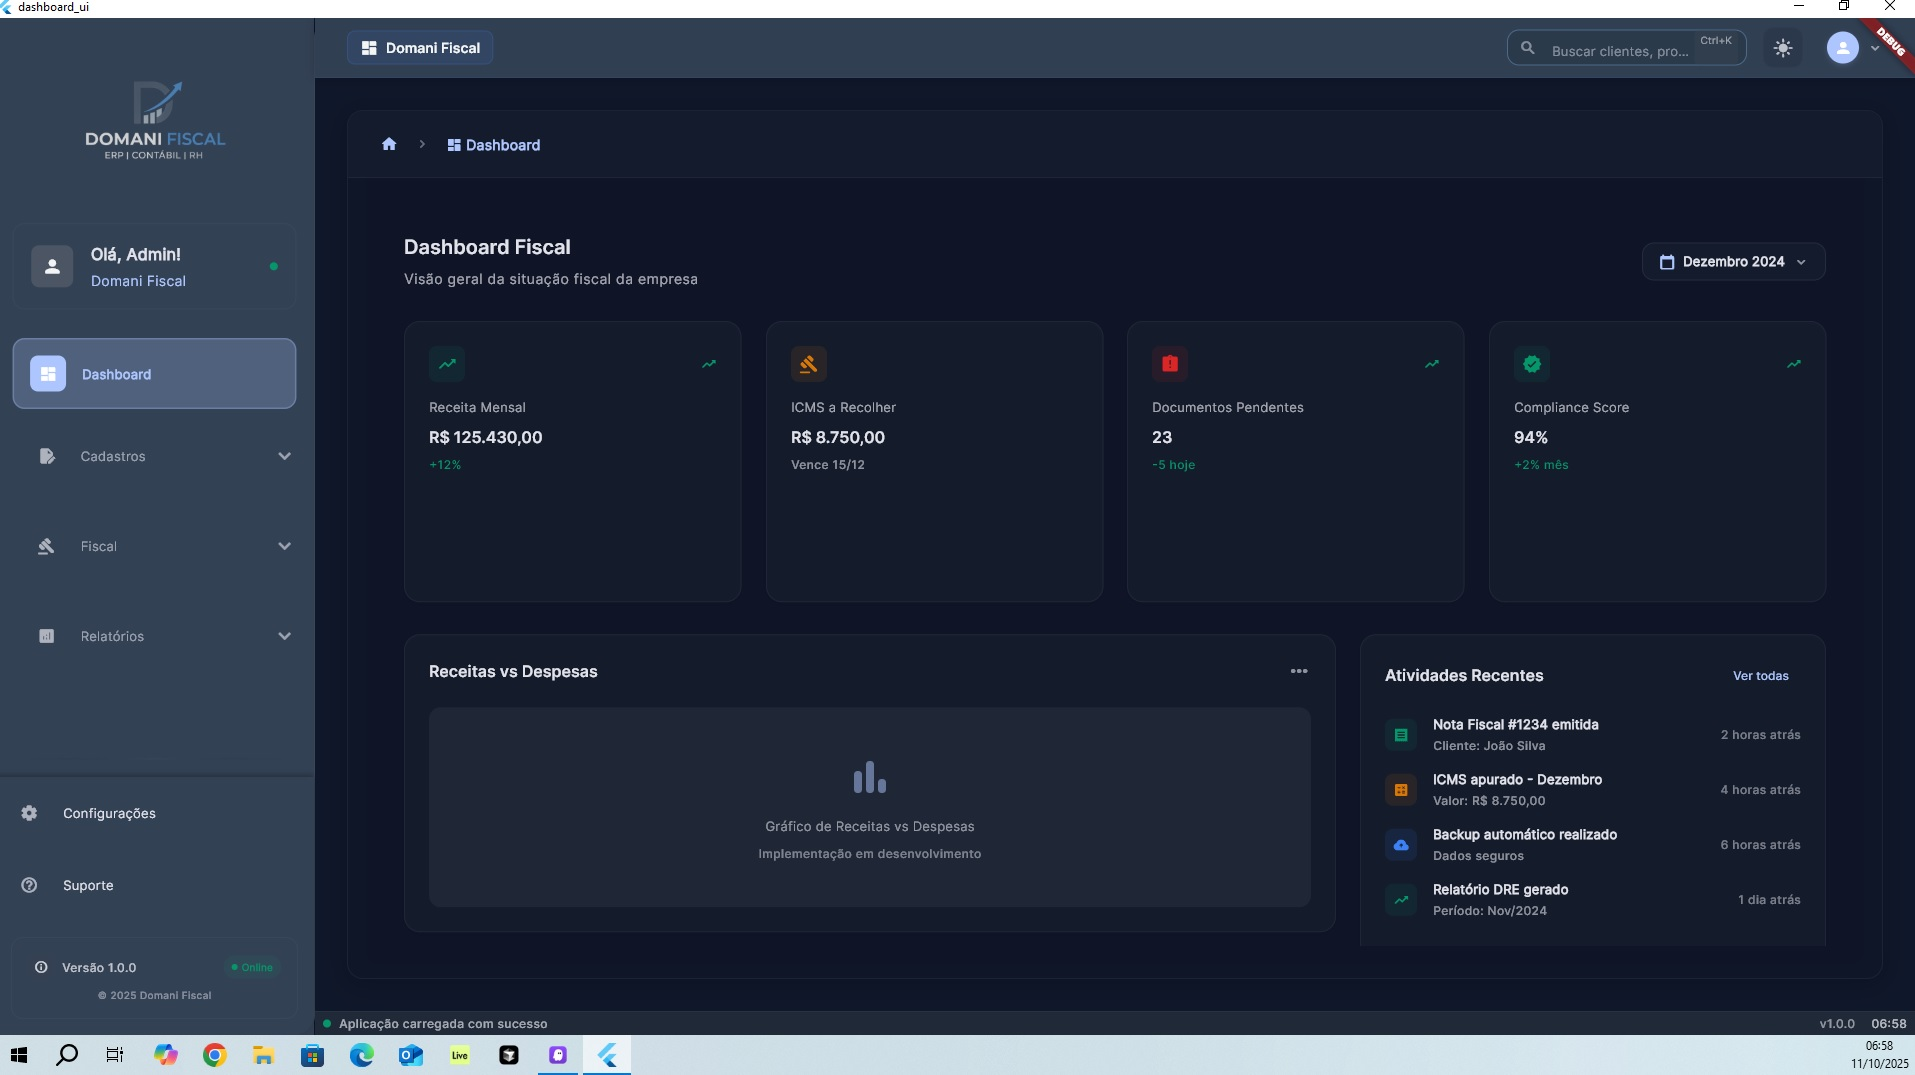
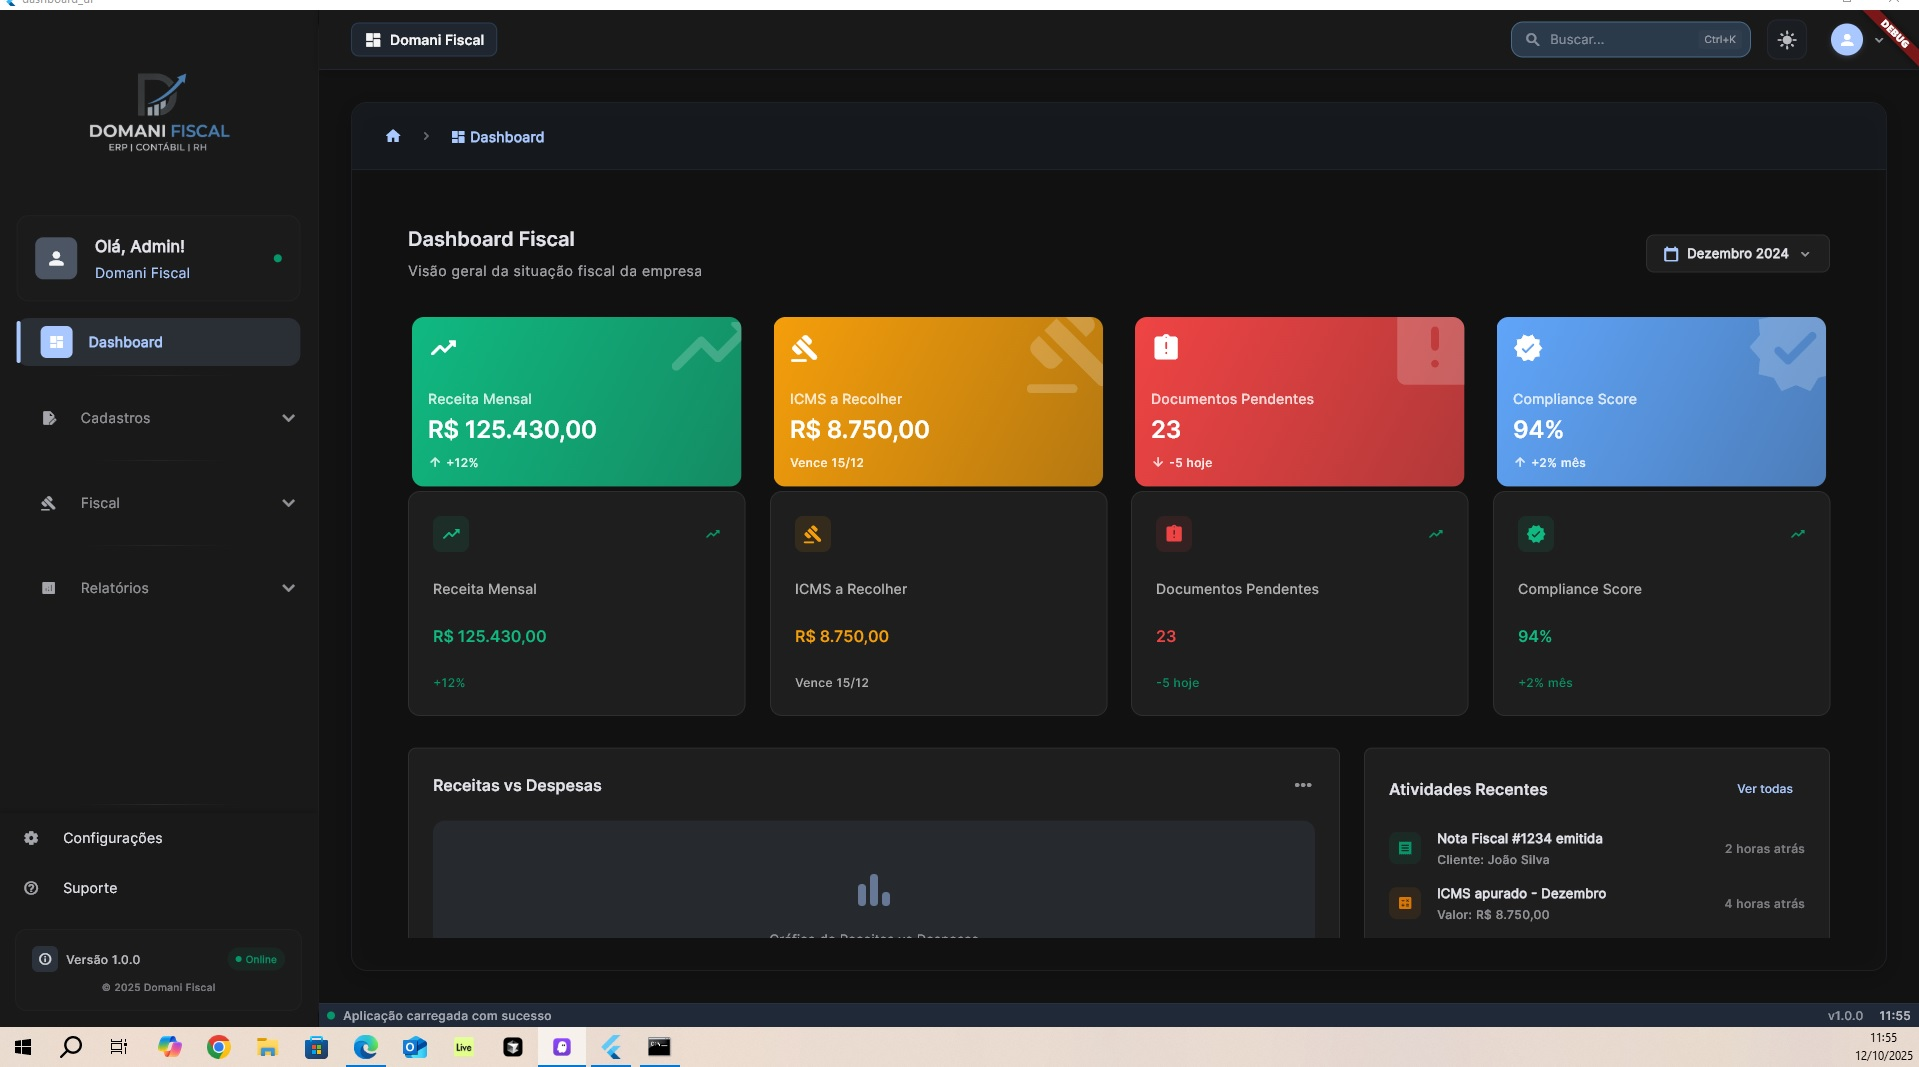
adicionando responsividade nos cards

diff --git a/lib/screens/dashboard_screen.dart b/lib/screens/dashboard_screen.dart
@@ -725,52 +725,68 @@ class _DashboardScreenState extends State<DashboardScreen> {
   ) {
     final isLargeScreen = screenWidth >= AppTheme.breakpointLarge;
 
-    return GridView.count(
-      shrinkWrap: true,
-      physics: const NeverScrollableScrollPhysics(),
-      crossAxisCount: isLargeScreen ? 4 : 2,
-      crossAxisSpacing: AppTheme.spacingL,
-      mainAxisSpacing: AppTheme.spacingL,
-      childAspectRatio: isLargeScreen ? 1.9 : 1.5,
-      children: [
-        _buildCard(
-          context,
-          title: 'Receita Mensal',
-          value: 'R\$ 125.430,00',
-          details: '+12%',
-          detailsPositive: true,
-          icon: Icons.trending_up_rounded,
-          color: isDarkMode ? AppTheme.successDark : AppTheme.successLight,
-        ),
-        _buildCard(
-          context,
-          title: 'ICMS a Recolher',
-          value: 'R\$ 8.750,00',
-          details: 'Vence 15/12',
-          detailsPositive: null,
-          icon: Icons.gavel_rounded,
-          color: isDarkMode ? AppTheme.warningDark : AppTheme.warningLight,
-        ),
-        _buildCard(
-          context,
-          title: 'Documentos Pendentes',
-          value: '23',
-          details: '-5 hoje',
-          detailsPositive: false,
-          icon: Icons.assignment_late_rounded,
-          color: isDarkMode ? AppTheme.errorDark : AppTheme.errorLight,
-        ),
-        _buildCard(
-          context,
-          title: 'Compliance Score',
-          value: '94%',
-          details: '+2% mês',
-          detailsPositive: true,
-          icon: Icons.verified_rounded,
-          color: isDarkMode ? AppTheme.infoDark : AppTheme.infoLight,
-        ),
-      ],
-    );
+    final List<Widget> cards = [
+      _buildCard(
+        context,
+        title: 'Receita Mensal',
+        value: 'R\$ 125.430,00',
+        details: '+12%',
+        detailsPositive: true,
+        icon: Icons.trending_up_rounded,
+        color: isDarkMode ? AppTheme.successDark : AppTheme.successLight,
+      ),
+      _buildCard(
+        context,
+        title: 'ICMS a Recolher',
+        value: 'R\$ 8.750,00',
+        details: 'Vence 15/12',
+        detailsPositive: null,
+        icon: Icons.gavel_rounded,
+        color: isDarkMode ? AppTheme.warningDark : AppTheme.warningLight,
+      ),
+      _buildCard(
+        context,
+        title: 'Documentos Pendentes',
+        value: '23',
+        details: '-5 hoje',
+        detailsPositive: false,
+        icon: Icons.assignment_late_rounded,
+        color: isDarkMode ? AppTheme.errorDark : AppTheme.errorLight,
+      ),
+      _buildCard(
+        context,
+        title: 'Compliance Score',
+        value: '94%',
+        details: '+2% mês',
+        detailsPositive: true,
+        icon: Icons.verified_rounded,
+        color: isDarkMode ? AppTheme.infoDark : AppTheme.infoLight,
+      ),
+    ];
+
+    if (isLargeScreen) {
+      return GridView.count(
+        shrinkWrap: true,
+        physics: const NeverScrollableScrollPhysics(),
+        crossAxisCount: 4,
+        crossAxisSpacing: AppTheme.spacingL,
+        mainAxisSpacing: AppTheme.spacingL,
+        childAspectRatio: 2.2,
+        children: cards,
+      );
+    } else {
+      return Wrap(
+        spacing: AppTheme.spacingM,
+        runSpacing: AppTheme.spacingM,
+        children: cards.map((card) {
+          return Container(
+            width: 280,
+            height: 160,
+            child: card,
+          );
+        }).toList(),
+      );
+    }
   }
 
   Widget _buildCard(
@@ -815,42 +831,53 @@ class _DashboardScreenState extends State<DashboardScreen> {
                 mainAxisAlignment: MainAxisAlignment.spaceBetween,
                 children: [
                   Icon(icon, color: Colors.white, size: 30),
-                  const Spacer(),
-                  Text(
-                    title,
-                    style: Theme.of(context).textTheme.titleMedium?.copyWith(
-                          color: Colors.white.withOpacity(0.8),
-                          fontWeight: FontWeight.w500,
-                        ),
-                  ),
-                  SizedBox(height: AppTheme.spacingXS),
-                  Text(
-                    value,
-                    style: Theme.of(context).textTheme.headlineSmall?.copyWith(
-                          color: Colors.white,
-                          fontWeight: FontWeight.bold,
-                          fontSize: AppTheme.getResponsiveFontSize(screenWidth, 22),
-                        ),
-                  ),
-                  SizedBox(height: AppTheme.spacingS),
-                  Row(
+                  Column(
+                    crossAxisAlignment: CrossAxisAlignment.start,
                     children: [
-                      if (detailsPositive != null)
-                        Icon(
-                          detailsPositive
-                              ? Icons.arrow_upward_rounded
-                              : Icons.arrow_downward_rounded,
-                          size: 14,
-                          color: Colors.white.withOpacity(0.8),
-                        ),
-                      if (detailsPositive != null)
-                        SizedBox(width: AppTheme.spacingXS),
                       Text(
-                        details,
-                        style: Theme.of(context).textTheme.bodySmall?.copyWith(
-                              color: Colors.white.withOpacity(0.9),
-                              fontWeight: FontWeight.w600,
+                        title,
+                        style: Theme.of(context).textTheme.titleMedium?.copyWith(
+                              color: Colors.white.withOpacity(0.8),
+                              fontWeight: FontWeight.w500,
                             ),
+                      ),
+                      SizedBox(height: AppTheme.spacingXS),
+                      Text(
+                        value,
+                        style: Theme.of(context)
+                            .textTheme
+                            .headlineSmall
+                            ?.copyWith(
+                              color: Colors.white,
+                              fontWeight: FontWeight.bold,
+                              fontSize: AppTheme.getResponsiveFontSize(
+                                  screenWidth, 22),
+                            ),
+                      ),
+                      SizedBox(height: AppTheme.spacingS),
+                      Row(
+                        children: [
+                          if (detailsPositive != null)
+                            Icon(
+                              detailsPositive
+                                  ? Icons.arrow_upward_rounded
+                                  : Icons.arrow_downward_rounded,
+                              size: 14,
+                              color: Colors.white.withOpacity(0.8),
+                            ),
+                          if (detailsPositive != null)
+                            SizedBox(width: AppTheme.spacingXS),
+                          Text(
+                            details,
+                            style: Theme.of(context)
+                                .textTheme
+                                .bodySmall
+                                ?.copyWith(
+                                  color: Colors.white.withOpacity(0.9),
+                                  fontWeight: FontWeight.w600,
+                                ),
+                          ),
+                        ],
                       ),
                     ],
                   ),
